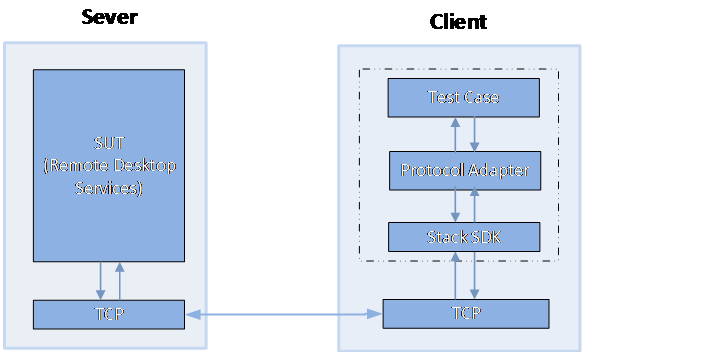
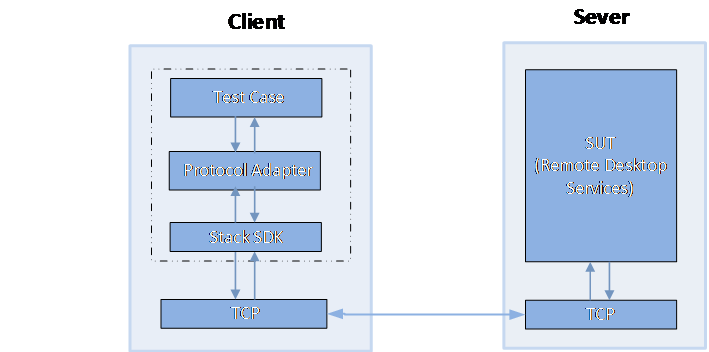
Update the endpoints and font

diff --git a/TestSuites/RDP/Server/Docs/MS-RDPEDYC_ServerTestDesignSpecification.md b/TestSuites/RDP/Server/Docs/MS-RDPEDYC_ServerTestDesignSpecification.md
@@ -77,8 +77,8 @@ Figure 1-4: MS-RDPEDYC close DVC message Sequence
 ### <a name="_Toc3964682147"/>Protocol Properties
 
 * Remote Desktop Protocol: Dynamic Virtual Channel Extension messages are passed between a DVC manager on a server and a DVC manager on a client, and are transmitted over one of the following underlying transport mechanisms:
-* §	A static virtual channel ([MS-RDPBCGR] sections 1.3.3 and 2.2.6), where the name of the channel is the ANSI character string "DRDYNVC" and bulk compression is enabled.
-* §	A lossy or reliable UDP multitransport connection ([MS-RDPEMT] sections 1.3 and 2.2.2.3).
+* A static virtual channel ([MS-RDPBCGR] sections 1.3.3 and 2.2.6), where the name of the channel is the ANSI character string "DRDYNVC" and bulk compression is enabled.
+* A lossy or reliable UDP multitransport connection ([MS-RDPEMT] sections 1.3 and 2.2.2.3).
 * The Remote Desktop Protocol: Dynamic Virtual Channel Extension does not establish any transport connections.
 
 ## <a name="_Toc3964682148"/>Test Method
@@ -123,13 +123,13 @@ Reasons for choosing Traditional Testing
 _Table 1 Test Suite Scenarios_
 
 #### <a name="_Toc3964682152"/>S1_EDYCBasicTest
-Preconditions:
+**Preconditions:**
 
 MS-RDPBCGR connection is setup.
 
 RDPServer supports EDYC.
 
-Typical Sequence:
+**Typical Sequence:**
 
 The typical scenario sequence is as follows:
 

diff --git a/TestSuites/RDP/Server/Docs/MS-RDPEMT_ServerTestDesignSpecification.md b/TestSuites/RDP/Server/Docs/MS-RDPEMT_ServerTestDesignSpecification.md
@@ -109,7 +109,7 @@ Reasons for choosing Traditional Testing
 _Table 1 Test Suite Scenarios_
 
 #### <a name="_Toc3964682152"/>S1_MultitransportConnectionInitiation
-Preconditions:
+**Preconditions:**
 
 The server indicates support of multitransport by sending the Initiate Multitransport Request PDUs.
 
@@ -133,8 +133,6 @@ This scenario tests the following types:
 * Tunnel PDU Subheader (RDP_TUNNEL_SUBHEADER)
 * Tunnel Create Response PDU (RDP_TUNNEL_CREATERESPONSE)
 * Tunnel Data PDU (RDP_TUNNEL_DATA)
-
-
 
 ## <a name="_Toc3964682160"/>Test Suite Design
 
